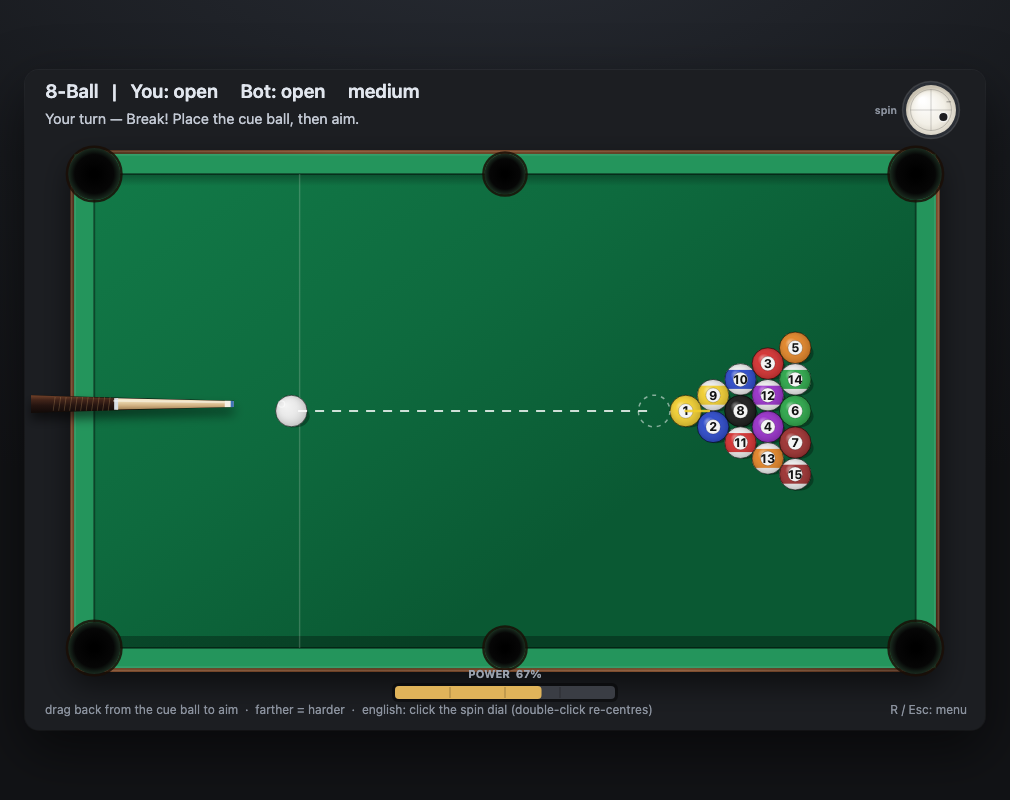
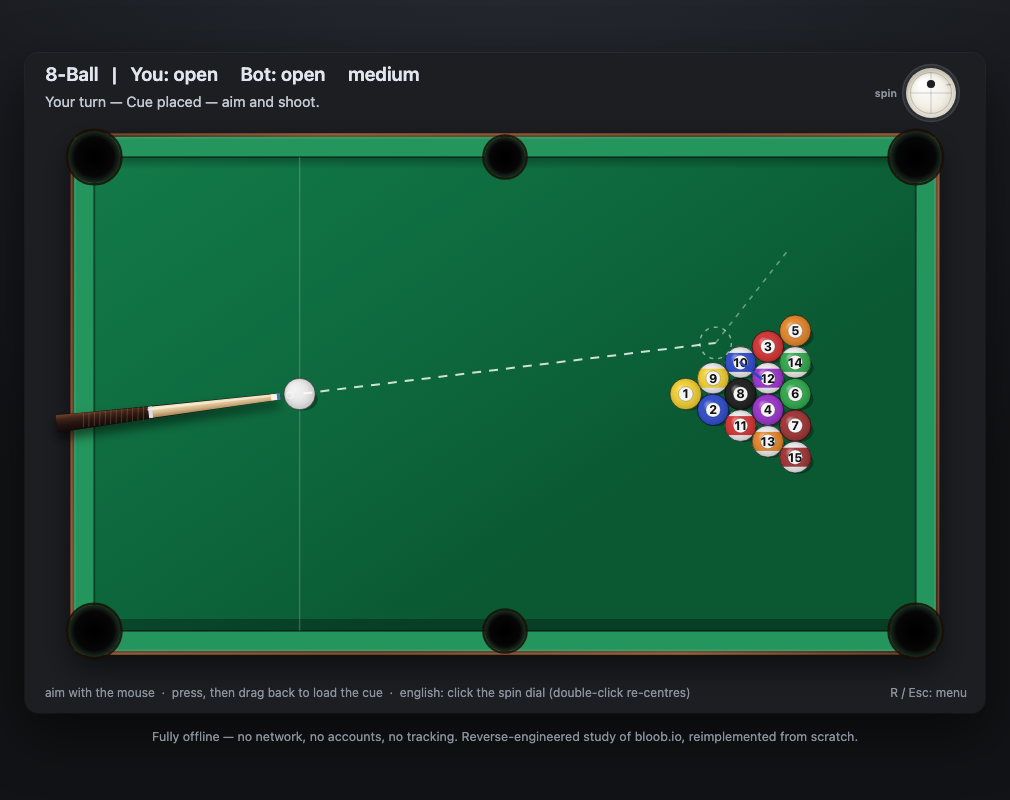
docs: how bloob's aim/power input works, and the screenshots to match
New §9.5 from PoolGame-DjLak87n.js (E7): the aim is atan2(ball - mouse) and
the shot is fired at angle + PI, i.e. straight at the cursor; the press freezes
J.angle because the aim branch sits after an `if (J.active) return`; power is
computed by power(start, end, angle), which returns 0 whenever the pull is
90-270 deg off the cue; and there is a separate `launcher` bar that only ever
sets power. Two gestures, one variable each. §11.7 records our implementation
of that split.

README: controls rewritten (move to aim, press to lock, drag back to load,
right-click cancels), verification 41/41, and 8ball/snooker screenshots
re-captured in headless Chrome so the hint line matches the new control.

diff --git a/docs/REA_findings.md b/docs/REA_findings.md
@@ -117,14 +117,32 @@
 - 开球另有一条：`maxBreakAngleModifier(.6)` 用 seed 的每一位数字产生 `0.6*(digit/5-1)` 的角度扰动，每发生一次球-球碰撞就用一位 —— 即**开球撒点的随机性来自 seed，不是物理**。
 - 结论：bloob 的加塞是**材质 + 角度修正的近似**，高低杆产生不了真正的缩杆回拉（它没有给球角速度）。我们理解其意图后**改用真实角动量**实现（§10），属于独立重写。
 
+### 9.5 瞄准与力度（输入模型，OBSERVATION, E7 = `PoolGame-DjLak87n.js`）
+输入状态对象：`J = {active, launcher, angle, angleOffset, power, velocity, ball, start, end}`。
+
+- **方向＝母球到鼠标**。桌面端每次 `mousemove`：`J.angle = atan2(球屏幕Y - clientY, 球屏幕X - clientX)`
+  （即"鼠标→球"方向）；开球时 `hitBall({ angle: J.angle + Math.PI, ... })`，所以**射出方向 = 球→鼠标**，
+  球杆画在 `angle` 一侧（也就是你这一侧）。这是"瞄准线指向鼠标"的直接证据。
+- **方向先定、力度后拉**。按下（非触摸左键）：`J.start = J.end = 鼠标`、`J.active = true`、`J.power = 0`；
+  随后 `mousemove` 里 `if (J.active) { ... $e(...); return; }` 在更新角度**之前**返回，
+  **拖动期间 `angle` 被冻结**，只有 `power` 会变。触摸端才用 `angleOffset` 边拖边瞄。
+- **力度只认"往回"**：`Be({start, end, angle})` 先算拖动方向与 `angle` 的夹角差 `diff`，
+  若 `diff ∈ (90°, 270°)`（即往球前方拖）直接返回 0，否则 `power = clamp01(dist / (max - min))`。
+- **另有一个独立 launcher 控件**（`ze`）：横向拖条 `power = clamp01((start.x - end.x) / launcherSize)`，
+  纯力度、不参与方向。
+- 松手：`power > .05` 才 `hitBall`，否则只把 `power` 清零（空点不发射）。
+
+结论：bloob 是"**先瞄准、再单独拉杆**"的两段式输入，方向与力度互不影响。原实现是"拖拽弹弓"——方向由拖动
+向量反推、且拖动中一直在变，方向和力度耦合在一起，手感与 bloob 不同（见 §11.7 的改法）。
+
 ## 10. 复刻路线（我们怎么做）
 1. 用 §2/§3 的常量 + 自写**确定性步进 2D 物理**（`src/physics.py`：top-down、无重力、圆-圆弹性碰撞、库边反弹、摩擦减速、袋口判定）。
 2. 规则层照搬 §4：`src/rules_eightball.py`（八球）、`src/rules_snooker.py`（斯诺克）。
 3. bot：`src/bot.py` 按"枚举候选(球, 袋, 接触点) → 路径贯通 → 自写模拟 → 评分"实现，难度档校准见 §5。
-4. 界面/输入/渲染：`src/main.py`（pygame 菜单 + 弹弓式瞄准 + 动画步进 + HUD）。
+4. 界面/输入/渲染：`src/main.py`（pygame 菜单 + 瞄准/拉杆两段式输入 + 动画步进 + HUD）。
 5. 全部代码独立重写，不含 bloob 专有代码/素材；bloob 原始 JS 仅在 `artifacts/`（被 `.gitignore` 排除，不入库）。
 6. **离线网页（`web/`）**：把上述物理/规则/bot **逐行移植为纯 JavaScript**，UI 用 Canvas 2D 重写。刻意使用 classic `<script>`（非 ES module），因此 `file://` 直接双击即可运行，无需本地服务器、零依赖、零网络。
-7. 验证：Node 无头跑逻辑不变量（23 项）+ 无头 DOM/Canvas 跑 UI 交互（30 项）；并用 headless Chrome 真实截图核对版式（见 `docs/screenshots/`）。
+7. 验证：Node 无头跑逻辑不变量（26 项）+ 无头 DOM/Canvas 跑 UI 交互（41 项）；并用 headless Chrome 真实截图核对版式（见 `docs/screenshots/`）。
 8. **斯诺克台面按标准样式重绘**：木质台身、比台呢略亮的库边胶条、绿色台呢带光泽、开球线与 D 区、六个点位、角袋大于中袋、无色号的高光球体（母球象牙白）。
 9. **表现层**：球滚动（号码盘随角度滑移/压扁/隐去、高速拖影尾部渐细）、完整球杆（紫檀后把 + 线缠 + 接牙 + 枫木前节 + 白铜先角 + 巧克杆头，随球半径缩放、拉杆后撤、出杆抽送、贴边自动缩短以免被画布硬切）、瞄准辅助（母球路径 + 假想球 + 目标球预测线（遇球/库截断，正对袋口时袋口脉冲）+ 母球分离线）。8 球与斯诺克共用同一套木质台身渲染，只是袋口与标线不同。
 
@@ -171,3 +189,19 @@
 - 无塞时目标球 `|vy| < 1`；右塞使它 `+15 u/s` 以上、左塞反向、母球反向偏；左右对称误差 < 6；
 - 正撞库：回弹 `vy` 在 0.72 倍区间、`vx≈0`；侧旋使 `|vx| > 20`；
 - 满力开球：全部停稳、无球出台、无深度穿插。
+
+### 11.7 输入：瞄准与力度解耦（对齐 §9.5）
+旧实现是"弹弓"：`aim = atan2(-dy, -dx)`（拖动方向取反），且只在拖动中更新——方向要靠拖出来、拖动过程中
+还一直在变，力度和方向天然耦合，看起来"反着来"。现在改成 bloob 的两段式：
+
+- **悬停即瞄准**：`aim = atan2(mouseY - cueY, mouseX - cueX)`，直接是母球→鼠标；球杆、假想球、预测线都
+  用同一个角，所以全都指向光标。
+- **按下锁定**：`begin_pull(pos)` 只记录 `pull_from`，不改 `angle`；`_updatePull` 里不再写 `aim_angle`。
+- **只认回拉分量**：`pull = clamp(-(Δ·û), 0, MAX_DRAG)`，`û = (cos aim, sin aim)`。横向/往前拖得 0，
+  所以蓄力不可能改变方向（与 bloob 的 90° 判定等价，且更平滑）。
+- **右键取消**：拉满的杆放回去，不发射。
+- 触摸端没有 hover：按下点兼作瞄准（母球→手指），其余逻辑相同。
+- 球杆后撤量改用 `pull_len / MAX_DRAG`（按实际拖动距离），而不是力度百分比，视觉上跟手一致。
+
+验证（无头 DOM，41 项）新增：指右瞄右、指上瞄上、球上抖动不改变瞄准、按下不移动瞄准、拉满前后 `aim_angle`
+完全一致、横向与往前拖力度严格为 0、回拉后力度可精确复现。

diff --git a/README.md b/README.md
@@ -31,15 +31,20 @@ No install, no local server, no network:
 
 ### Controls
 - **Ball-in-hand** — click/tap inside the allowed area to place the cue ball.
-- **Aim & shoot** — press & hold, drag **away** from the cue (slingshot), release. Pull distance = power;
-  the shot travels opposite the drag.
+- **Aim** — just move the cursor. The aim is the ray **from the cue ball to the pointer**, so the line,
+  the ghost ball and the cue all point where you are looking. (Clicking is not what aims.)
+- **Power** — press anywhere to **lock** that direction, then drag **back** along the cue and release. The
+  shot only ever uses the backward component of the drag, so loading power cannot change where you are
+  pointing; a sideways or forward drag loads nothing. **Right-click** puts a loaded cue back down.
 - **English (加塞)** — click inside the spin dial on the right to move the strike point. Drag the dot to the
   bottom and the shot is a **draw**, to the top a **follow**, left/right gives **side spin**. Double-click the
   dial (or press **S**) to re-centre it. The cue itself is drawn off-centre, matching the strike point.
 - **R / Esc** — back to the menu.
 
-The drag is gamma-shaped (`power = min + frac^1.35 · range`), so the first third of the pull is a soft touch
-and only the last stretch reaches a full stroke. A live `POWER n%` bar makes it easy to judge.
+This is how bloob's own input works: its `power(start, end, angle)` helper throws the pull away unless it is
+within 90° of the cue, which is exactly why aiming and loading are two separate gestures there. The pull is
+gamma-shaped (`power = min + frac^1.35 · range`), so the first third of the drag is a soft touch and only the
+last stretch reaches a full stroke. A live `POWER n%` bar makes it easy to judge.
 
 ### Pacing
 
@@ -207,9 +212,12 @@ The JavaScript port surfaced three genuine bugs that also affected the Python bu
   coasting ball's speed follows `v₀·e^(−0.45 t)` to within a few per cent.
 - **Position play & escapes (Node, headless): 6/6** — a deliberately snookered cue finds a one-rail kick that
   contacts the ball on, stays on the table, and the 8-ball / snooker frames still finish.
-- **UI wiring (headless DOM/Canvas): 32/32** — menu → start → place → aim → pull → strike → resolve → bot
+- **UI wiring (headless DOM/Canvas): 41/41** — menu → start → place → aim → pull → strike → resolve → bot
   turn, for both modes, plus the game-over overlay, a monotonic power curve from a soft tap to a full stroke,
-  the spin dial setting the strike point, and ball-in-hand on both tables.
+  the spin dial setting the strike point, and ball-in-hand on both tables. The aim/power split has its own
+  cases: pointing right aims right (not left), pointing up aims up, jitter sitting on the ball is ignored,
+  pressing does not move the aim, the aim is identical before and after a full pull, and sideways/forward
+  drags load exactly zero power.
 - Screenshots above are real renders captured with headless Chrome.
 
 The bot search is a **generator** that is drained in ~7 ms slices per frame, so choosing a shot never freezes
@@ -256,8 +264,12 @@ bot 除 ghost-ball 进球搜索外，新增**走位评估**（打完球后母球
 
 **力度**：bot 不再"每杆最大力"。指数摩擦下球滑行距离恰为 `v₀/k`，于是所需速度可由几何直接算出
 `power = k·(母球到假想球距离 + 目标球到袋距离 / cos(切角))`，薄球按法向分量补偿。实测一整局 8 球
-力度落在 ~130–1000（上限 1350），只有开球是刻意发力。玩家侧拖拽用 gamma 曲线，前 1/3 是轻推，
-后段才到满杆，并实时显示 `POWER n%`。
+力度落在 ~130–1000（上限 1350），只有开球是刻意发力。
+
+**瞄准与发力分开**（和 bloob 一样）：鼠标移动就决定方向——瞄准线是**母球到鼠标的射线**，球杆、假想球、
+预测线全都指向你看着的地方；按下只是**锁定**这个方向，之后往回拖才拉杆蓄力。蓄力只取"沿球杆往回"的那
+一个分量，所以拉多大力都改不了方向，横着拖、往前拖都是 0，右键把拉满的杆放回去。gamma 曲线让前 1/3
+是轻推、后段才到满杆，并实时显示 `POWER n%`。
 
 **节奏**：台面现在按**真实时间**跑——固定 240 Hz 积分步长、每帧 4 个子步，也就是每帧恰好推进 1/60 秒
 的台面时间。旧版本每帧跑 16 个 1/360 秒的步，等于所有球**快 2.7 倍**，碰撞在看清之前就结束了，这就是
